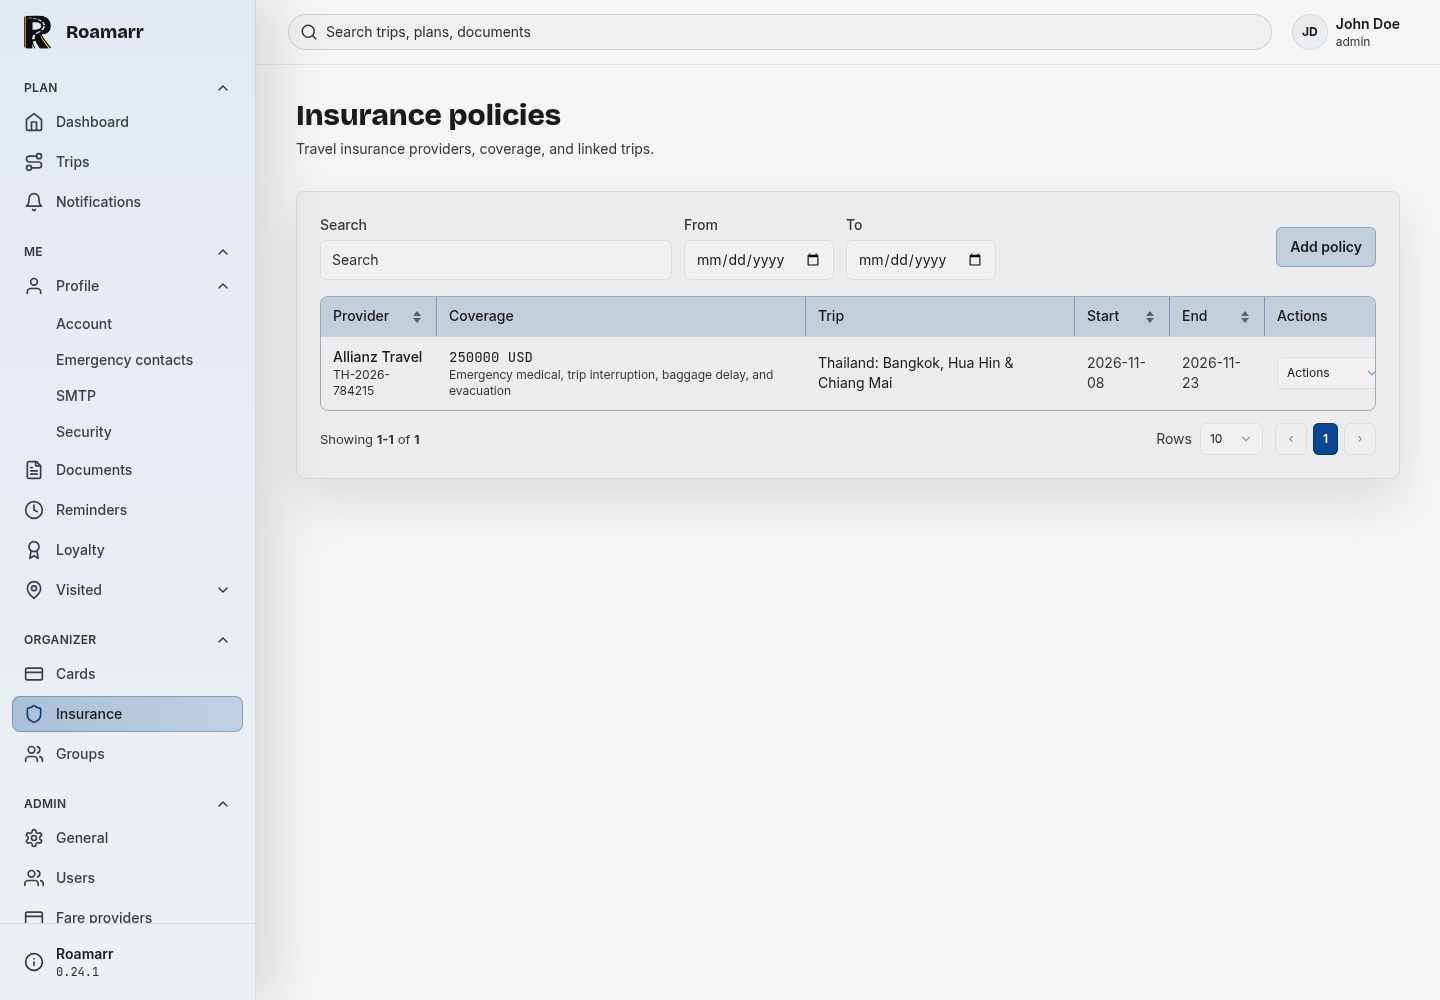
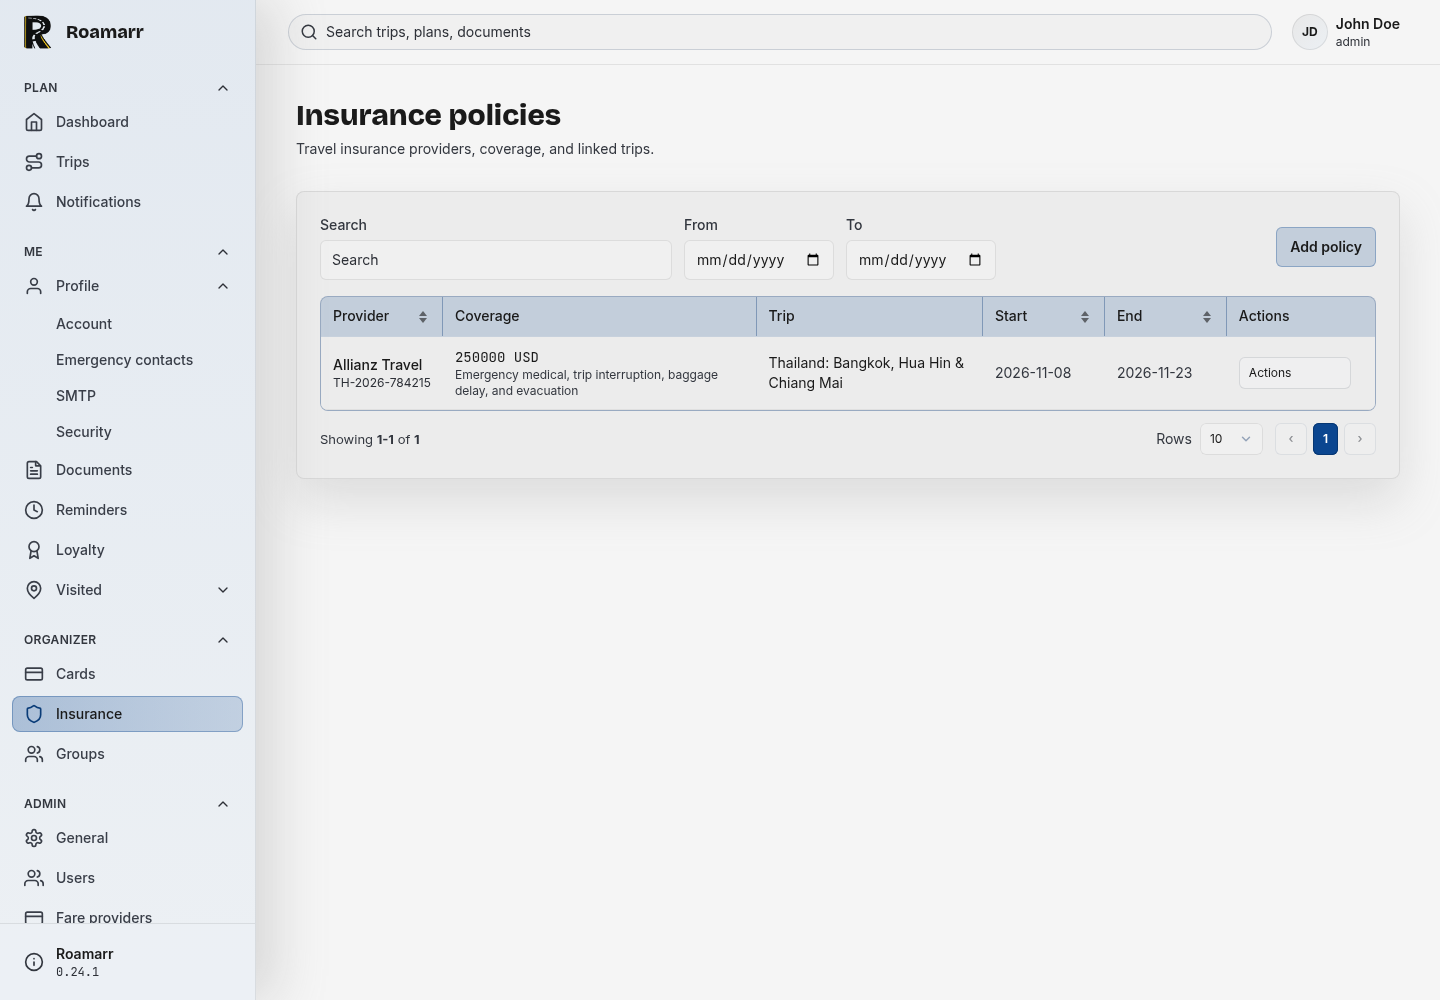
Fix table and itinerary layout

Changed region(s): [[0.2188, 0.31, 0.7188, 0.403], [0.75, 0.31, 0.9062, 0.403]]

diff --git a/src/app.css b/src/app.css
@@ -1817,6 +1817,16 @@ button.card:hover,
 		min-width: 7rem;
 		max-width: 100%;
 	}
+	.gridjs-th[data-column-id='startDate'],
+	.gridjs-td[data-column-id='startDate'],
+	.gridjs-th[data-column-id='endDate'],
+	.gridjs-td[data-column-id='endDate'] {
+		white-space: nowrap;
+	}
+	.gridjs-th[data-column-id='__actions'],
+	.gridjs-td[data-column-id='__actions'] {
+		white-space: nowrap;
+	}
 	.grid-host *,
 	.grid-host *::before,
 	.grid-host *::after {

diff --git a/src/routes/trips/[id]/trip-detail-modern.css b/src/routes/trips/[id]/trip-detail-modern.css
@@ -85,7 +85,7 @@
 .trip-modern-toolbar {
 	display: grid;
 	grid-template-columns: minmax(12rem, 17rem) minmax(12rem, 1fr) auto;
-	align-items: center;
+	align-items: start;
 	gap: 0.8rem;
 	padding: 1rem 0 1.25rem;
 }
@@ -222,6 +222,10 @@
 
 .trip-modern-day-card + .trip-modern-day-card {
 	margin-top: 1.25rem;
+}
+
+.trip-modern-main:not(.trip-modern-main-board) .trip-modern-panel + .trip-modern-day-card {
+	margin-top: 1rem;
 }
 
 .trip-modern-day-head {

diff --git a/src/routes/insurance/+page.svelte b/src/routes/insurance/+page.svelte
@@ -19,6 +19,7 @@
 		{
 			id: 'provider',
 			name: 'Provider',
+			width: '112px',
 			sort: true,
 			formatter: (_cell: unknown, row: Record<string, unknown>) =>
 				html(
@@ -31,6 +32,7 @@
 		{
 			id: 'coverage',
 			name: 'Coverage',
+			width: '288px',
 			sort: false,
 			formatter: (_cell: unknown, row: Record<string, unknown>) => {
 				const parts: string[] = [];
@@ -50,6 +52,7 @@
 		{
 			id: 'tripName',
 			name: 'Trip',
+			width: '208px',
 			sort: false,
 			formatter: (_cell: unknown, row: Record<string, unknown>) =>
 				row.tripName
@@ -59,6 +62,7 @@
 		{
 			id: 'startDate',
 			name: 'Start',
+			width: '112px',
 			sort: true,
 			formatter: (_cell: unknown, row: Record<string, unknown>) =>
 				row.startDate
@@ -68,6 +72,7 @@
 		{
 			id: 'endDate',
 			name: 'End',
+			width: '112px',
 			sort: true,
 			formatter: (_cell: unknown, row: Record<string, unknown>) =>
 				row.endDate

diff --git a/src/lib/components/GridTable.svelte b/src/lib/components/GridTable.svelte
@@ -5,6 +5,7 @@
 	export interface GridColumn {
 		id: string;
 		name: string;
+		width?: string;
 		formatter?: (cell: unknown, row: Record<string, unknown>) => string | ReturnType<typeof html>;
 		sort?: boolean;
 	}
@@ -94,6 +95,7 @@
 			? {
 					id: '__actions',
 					name: 'Actions',
+					width: '136px',
 					sort: false,
 					data: (row: Record<string, unknown>) => row,
 					formatter: (_cell: unknown, row: Record<string, unknown>) => {